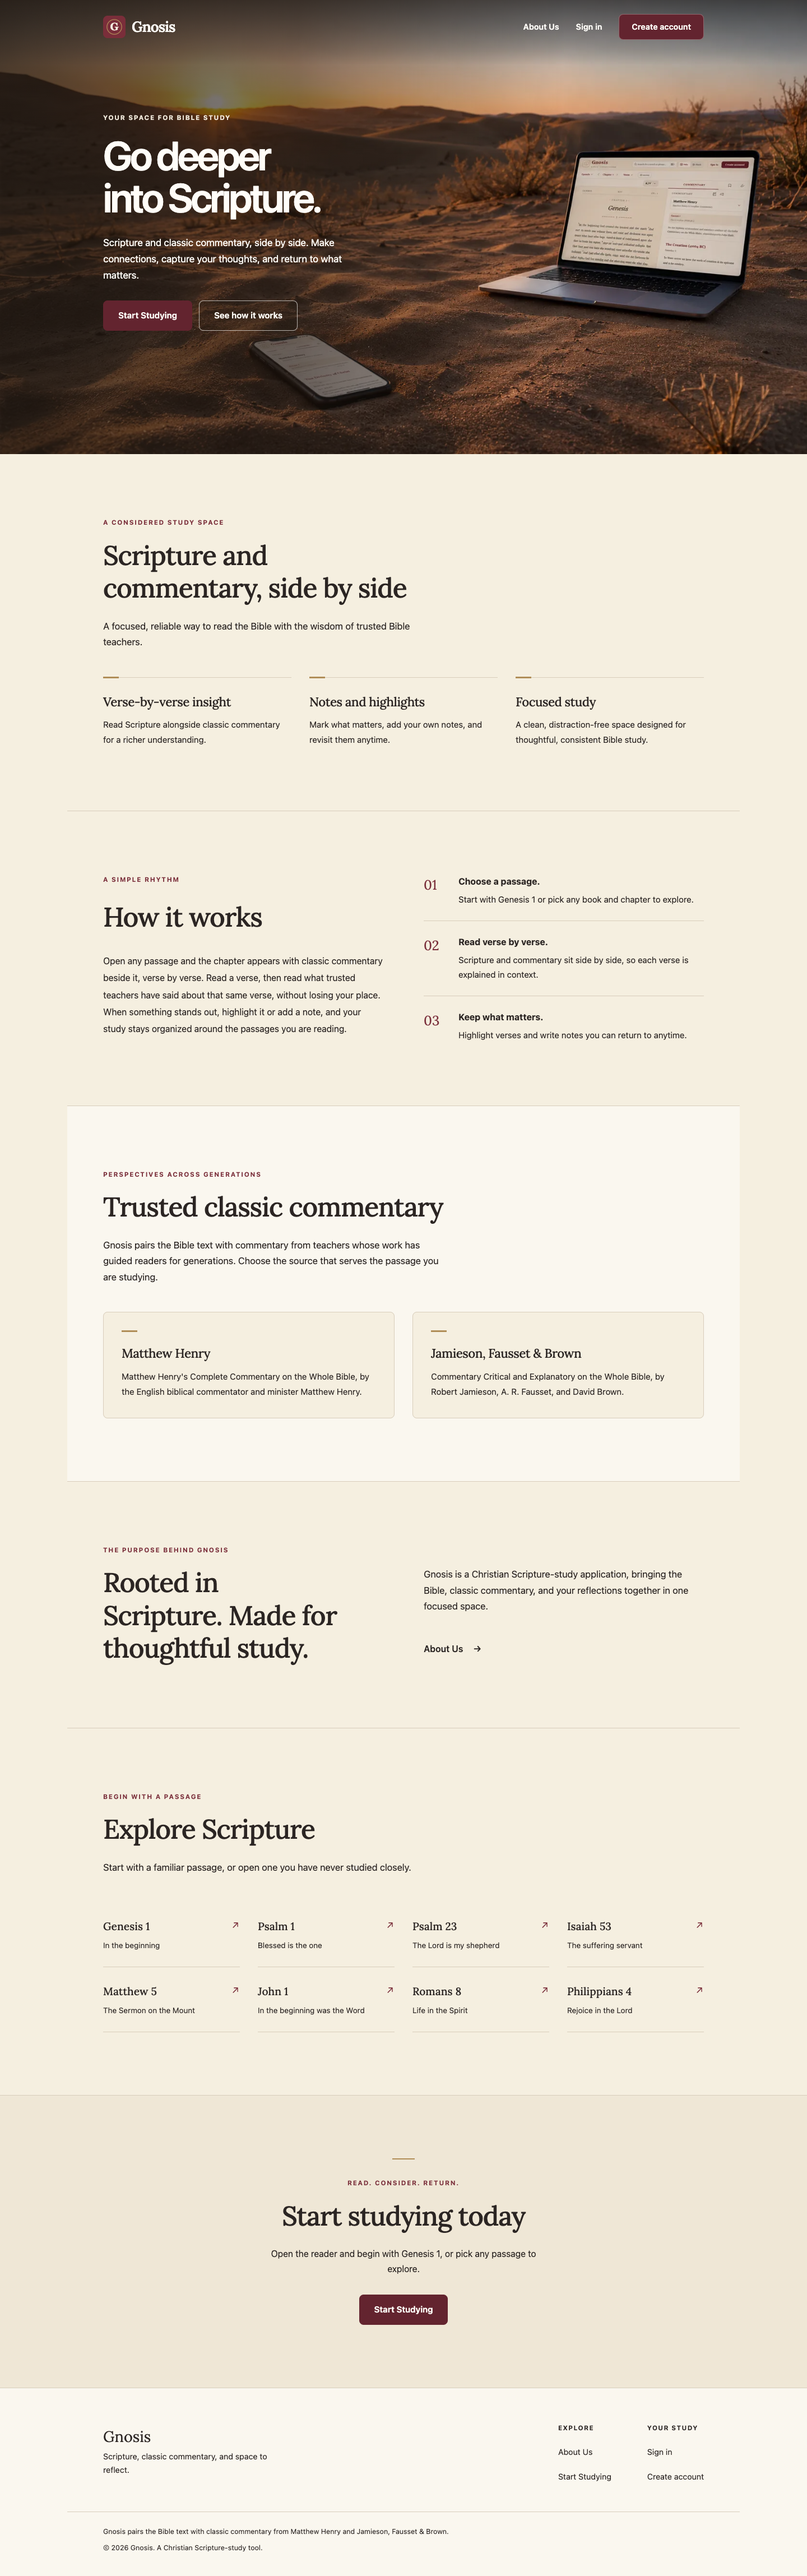
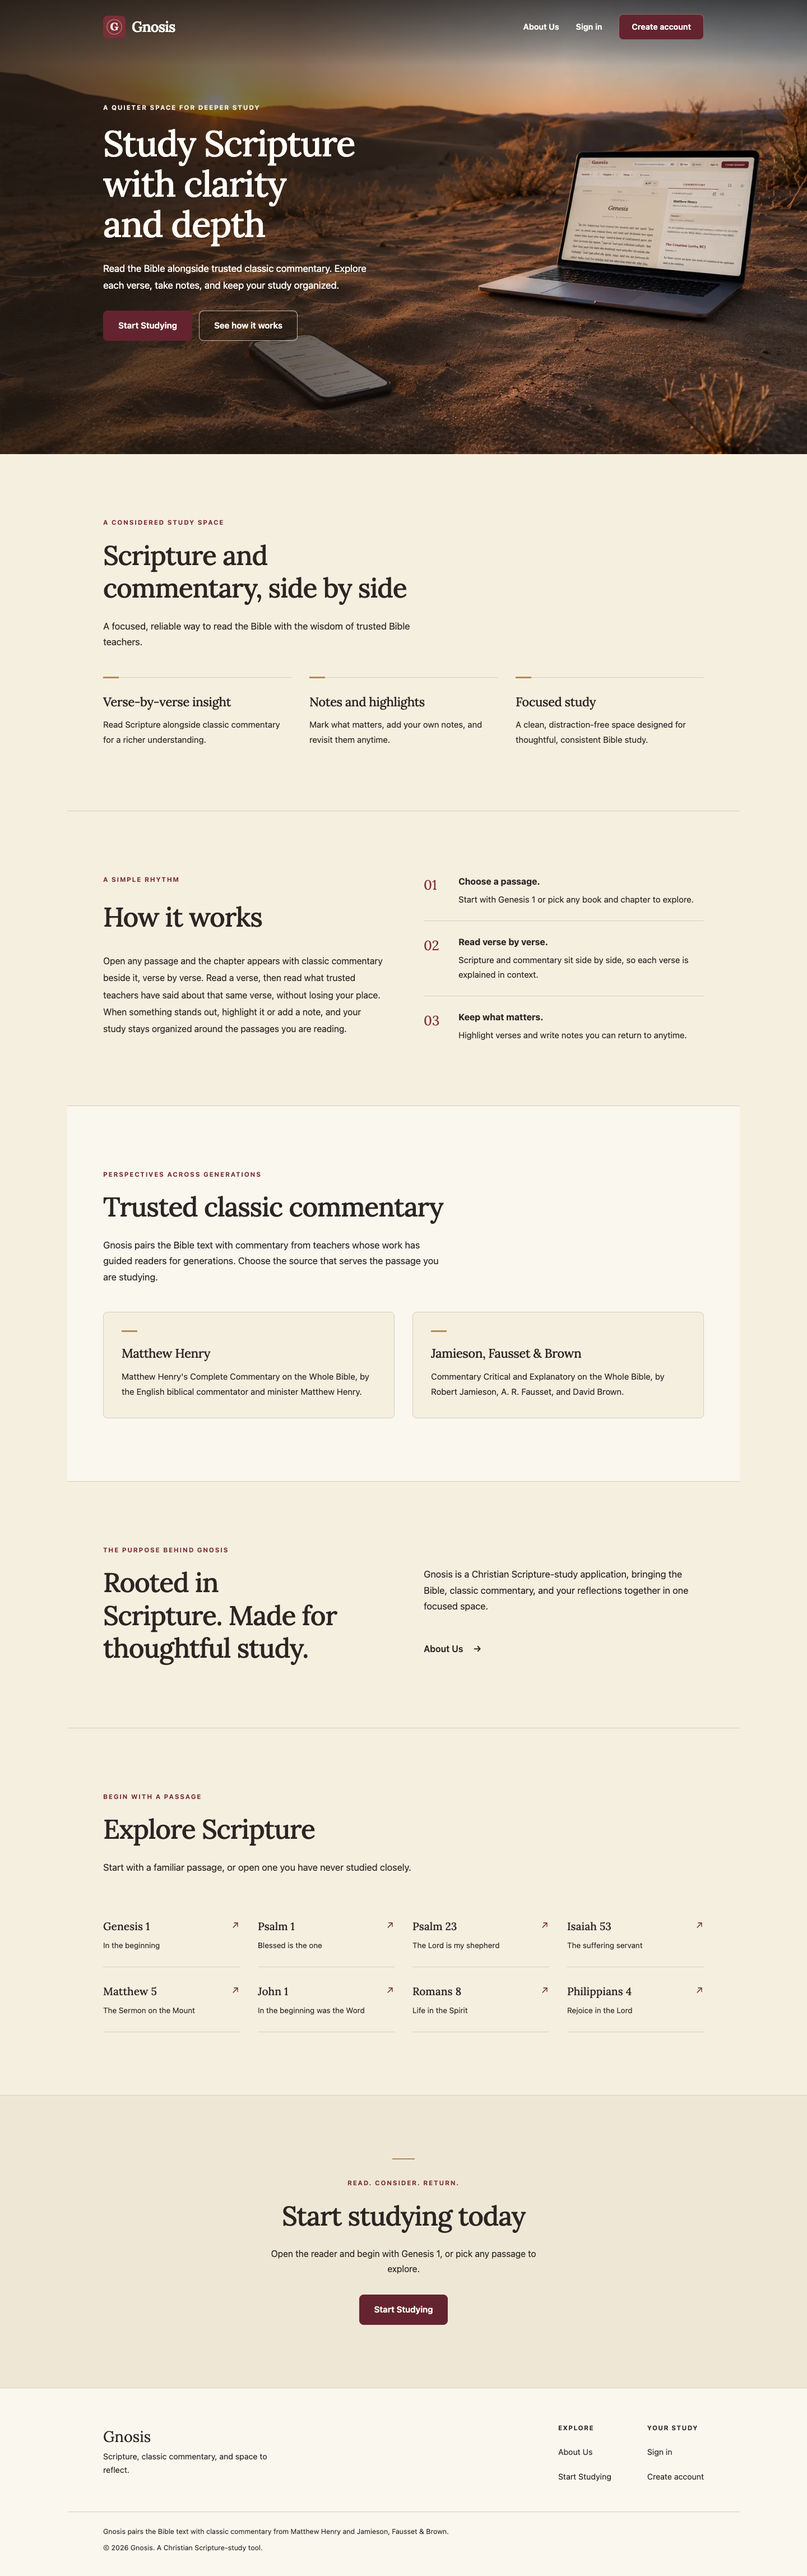
Restore previous hero copy and typography

Changed region(s): [[0.125, 0.0311, 0.4375, 0.1556]]

diff --git a/frontend/src/pages/LandingPage.css b/frontend/src/pages/LandingPage.css
@@ -94,8 +94,8 @@
 .landing-hero-img { display: block; width: 100%; height: auto; aspect-ratio: 1672 / 941; object-fit: cover; }
 .landing-hero-scrim { display: none; }
 .landing-hero-copy { width: min(100%, var(--public-width)); margin: auto; padding: 48px var(--public-gutter) 64px; }
-.landing-hero-copy h1 { max-width: 680px; margin: 0 0 28px; font-family: -apple-system, BlinkMacSystemFont, "Segoe UI", sans-serif; font-size: clamp(2.8rem, 5vw, 4.5rem); font-weight: 600; letter-spacing: -.055em; line-height: 1.04; text-wrap: balance; }
-.landing-hero-copy > p:not(.public-eyebrow) { max-width: 520px; margin: 0 0 30px; font-size: 1.08rem; line-height: 1.7; }
+.landing-hero-copy h1 { max-width: 680px; margin: 0 0 28px; font-size: clamp(2.4rem, 4.6vw, 4rem); line-height: 1.12; text-wrap: balance; }
+.landing-hero-copy > p:not(.public-eyebrow) { max-width: 520px; margin: 0 0 30px; font-size: 1.07rem; line-height: 1.75; }
 .landing-hero-ctas { display: flex; flex-wrap: wrap; gap: 12px; }
 @media (min-width: 1200px) {
     .landing-page { --hero-height: min(56.25vw, 900px); }
@@ -209,7 +209,7 @@
     .landing-header-inner { min-height: 80px; padding-block: 16px; }
     .landing-hero-copy { padding-block: 36px 56px; }
     .landing-hero-copy .public-eyebrow { font-size: .65rem; letter-spacing: .12em; }
-    .landing-hero-copy h1 { font-size: clamp(2.65rem, 8.5vw, 3.8rem); }
+    .landing-hero-copy h1 { font-size: clamp(2.2rem, 7vw, 3.4rem); }
     .landing-hero-copy > p:not(.public-eyebrow) { font-size: 1rem; }
     .landing-btn-large { padding-inline: 20px; }
     .landing-hero-ctas { display: grid; grid-template-columns: 1fr; }

diff --git a/frontend/src/pages/LandingPage.test.jsx b/frontend/src/pages/LandingPage.test.jsx
@@ -35,12 +35,12 @@ describe("LandingPage", () => {
         expect(
             screen.getByRole("heading", {
                 level: 1,
-                name: "Go deeper into Scripture.",
+                name: "Study Scripture with clarity and depth",
             }),
         ).toBeInTheDocument();
         expect(
             screen.getByText(
-                "Scripture and classic commentary, side by side. Make connections, capture your thoughts, and return to what matters.",
+                "Read the Bible alongside trusted classic commentary. Explore each verse, take notes, and keep your study organized.",
             ),
         ).toBeInTheDocument();
 
@@ -363,7 +363,7 @@ describe("App routing with the landing page", () => {
         expect(
             screen.getByRole("heading", {
                 level: 1,
-                name: "Go deeper into Scripture.",
+                name: "Study Scripture with clarity and depth",
             }),
         ).toBeInTheDocument();
         expect(window.location.pathname).toBe("/");
@@ -383,7 +383,7 @@ describe("App routing with the landing page", () => {
         expect(
             screen.queryByRole("heading", {
                 level: 1,
-                name: "Go deeper into Scripture.",
+                name: "Study Scripture with clarity and depth",
             }),
         ).toBeNull();
     });

diff --git a/frontend/src/pages/LandingPage.jsx b/frontend/src/pages/LandingPage.jsx
@@ -117,14 +117,14 @@ export default function LandingPage() {
             <main id="landing-main" tabIndex={-1}>
                 <section className="landing-hero" aria-labelledby="landing-hero-heading">
                     <div className="landing-hero-copy">
-                        <p className="public-eyebrow">Your space for Bible study</p>
+                        <p className="public-eyebrow">A quieter space for deeper study</p>
                         <h1 id="landing-hero-heading">
-                            Go deeper into Scripture.
+                            Study Scripture with clarity and depth
                         </h1>
                         <p>
-                            Scripture and classic commentary, side by side.
-                            Make connections, capture your thoughts, and
-                            return to what matters.
+                            Read the Bible alongside trusted classic
+                            commentary. Explore each verse, take notes,
+                            and keep your study organized.
                         </p>
                         <div className="landing-hero-ctas">
                             <Link
